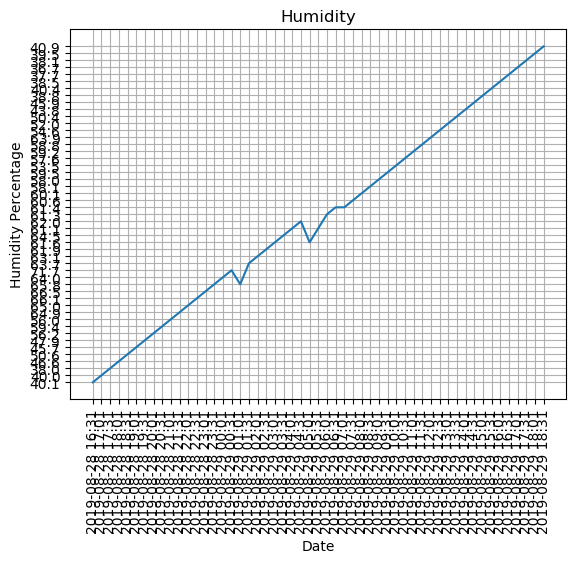
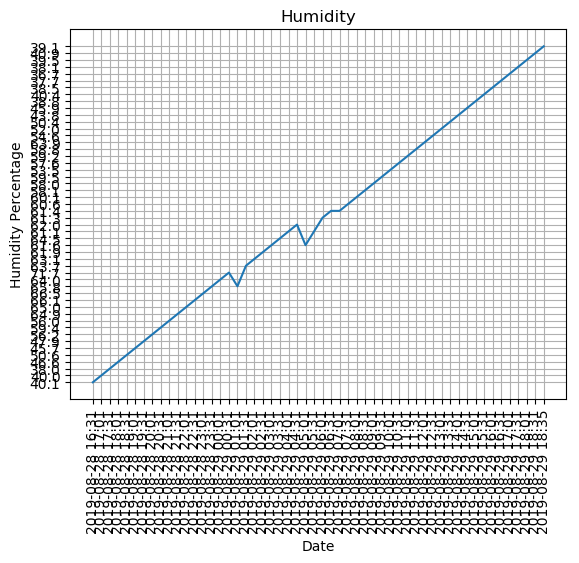
2019-08-29 18:35

Changed region(s): [[0.0311, 0.0604, 0.9948, 0.9663]]

diff --git a/monitor.py b/monitor.py
@@ -38,8 +38,8 @@ if cameraCaptureIsOn:
 sensormodel = Adafruit_DHT.AM2302
 sensorpin = 4
 humidity, temperature = Adafruit_DHT.read_retry(sensormodel, sensorpin)
-humidity = round(humidity, 1)
-temperature = round(temperature, 1)
+humidity = round(humidity, 2)
+temperature = round(temperature, 2)
 
 # Prepare temperature file
 with open(temperatureFileName, 'a') as file:
